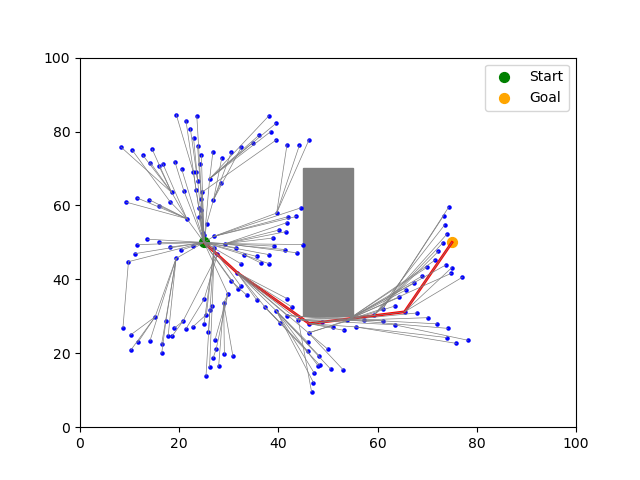
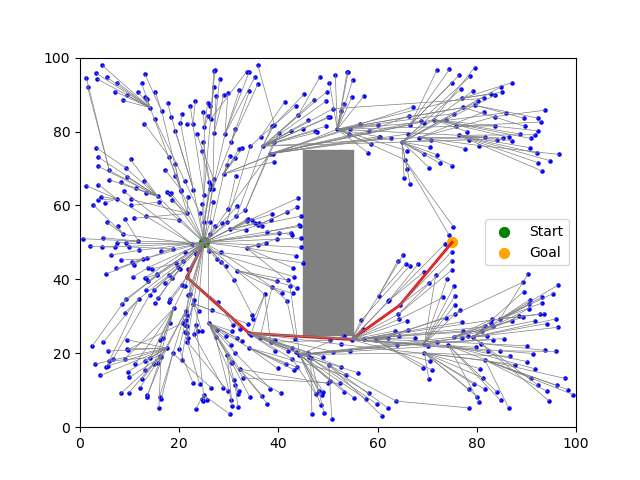
collecting results at different number of iterations

Changed region(s): [[0.125, 0.125, 0.9062, 0.875]]

diff --git a/codes/RRT_star.py b/codes/RRT_star.py
@@ -14,7 +14,6 @@ class RRT_star:
         self.goal_tolerance = goal_tolerance
         self.map_height = 100
         self.map_width = 100
-        self.near_radius = 10.0
         self.path_length_500 = 0
         self.path_length_1000 = 0
         self.path_length_2500 = 0
@@ -122,10 +121,13 @@ class RRT_star:
             q_new = self.steer(q_nearest, q_rand)
             if i == 499:
                 self.path_length_500 = self.cost_to_come(q_nearest) + np.linalg.norm(np.array(q_new) - np.array(q_nearest))
+                self.plot_search_tree(fig_name=f"rrt_star_search_tree_iter_500.png")
             if i == 999:
                 self.path_length_1000 = self.cost_to_come(q_nearest) + np.linalg.norm(np.array(q_new) - np.array(q_nearest))
+                self.plot_search_tree(fig_name=f"rrt_star_search_tree_iter_1000.png")
             if i == 2499:
                 self.path_length_2500 = self.cost_to_come(q_nearest) + np.linalg.norm(np.array(q_new) - np.array(q_nearest))
+                self.plot_search_tree(fig_name=f"rrt_star_search_tree_iter_2500.png")
             if self.map.is_valid(q_nearest, q_new):
                 neighbors = self.neighborhood(q_new)
                 q_best = self.best_parent(q_new, neighbors)
@@ -134,7 +136,7 @@ class RRT_star:
                 self.rewire(q_new, neighbors)
             i += 1
             if  q_new == self.goal:
-                print("Goal reached!")
+                print(f"Goal reached with {i} iterations!")
                 return self.reconstruct_path(q_new), i
             
         print("Goal not reached within max iterations.")
@@ -171,8 +173,21 @@ class RRT_star:
         plt.savefig(fig_name)
         plt.show()
 
+    def plot_search_tree(self, fig_name="rrt_search_tree.png"):
+        fig, ax = plt.subplots()
+        ax = self.map.display(ax)
+        xs, ys = zip(*self.V)
+        ax.scatter(xs, ys, c='blue', s=5)
+        plt.scatter([self.start[0]], [self.start[1]], c='green', s=50, label='Start')
+        plt.scatter([self.goal[0]], [self.goal[1]], c='orange', s=50, label='Goal')
+        for child, (parent, _) in self.E.items():
+            plt.plot([child[0], parent[0]], [child[1], parent[1]], c='gray', linewidth=0.5)
+        plt.legend()
+        plt.savefig(fig_name)
+        plt.show()
+
 if __name__ == "__main__":
-    rrt = RRT_star(start=(25, 50), goal=(75, 50), map_type=1)
+    rrt = RRT_star(l = 25, start=(25, 50), goal=(75, 50), map_type=1)
     path, iterations = rrt.search()
     rrt.plot_path(path)
 

diff --git a/codes/number_1.py b/codes/number_1.py
@@ -1,4 +1,4 @@
-from RRT import RRT
+from RRT_star import RRT_star
 import numpy as np
 import yaml
 import statistics
@@ -15,7 +15,7 @@ if __name__ == "__main__":
     vertices_dict = {}
     sol_length_dict = {}
     for i in range(n_trials):
-        rrt = RRT(start=(25, 50), goal=(75, 50), map_type=1, l=l)
+        rrt = RRT_star(start=(25, 50), goal=(75, 50), map_type=1, l=l)
         path, iterations = rrt.search(seed=i)
         iterations_dict[i] = iterations
         vertices_dict[i] = len(rrt.V)
